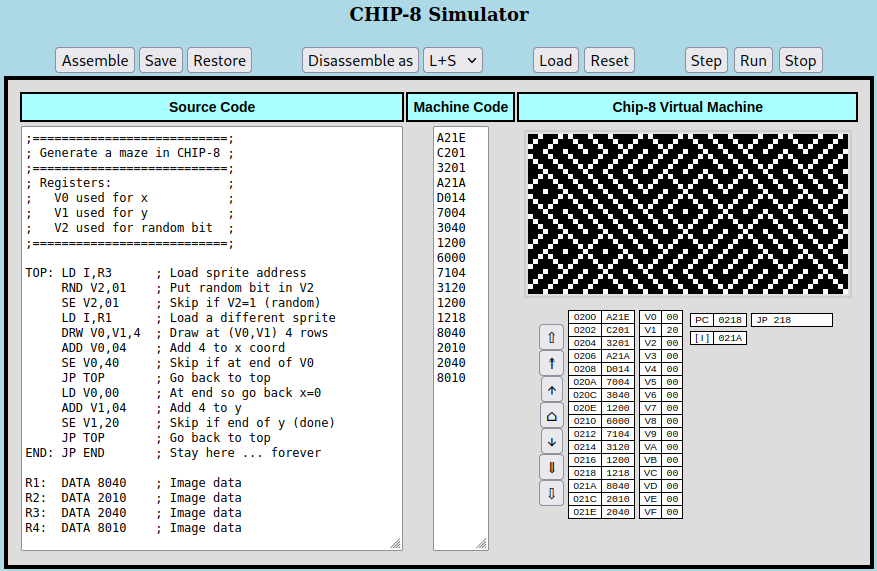
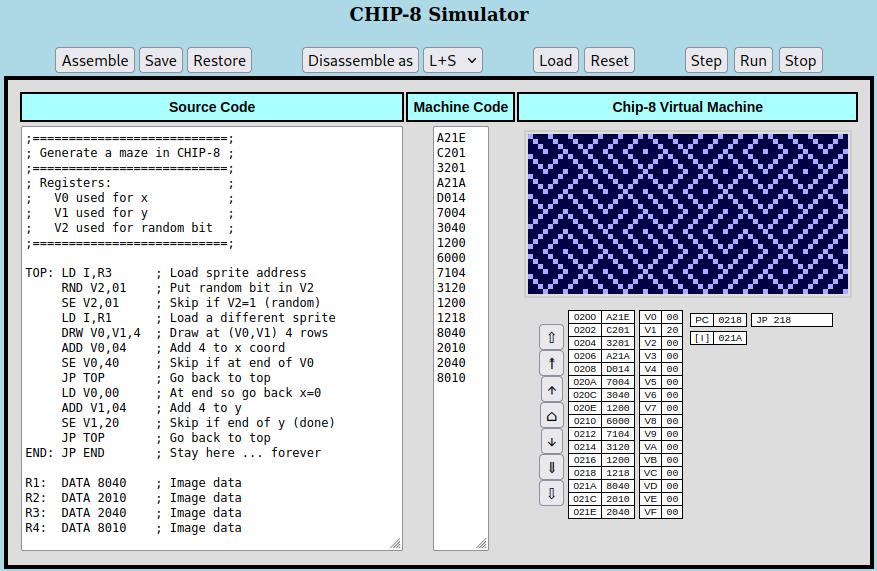
Added color (light blue on dark blue) to the output screen.

Changed region(s): [[0.5849, 0.2084, 0.9852, 0.5359]]

diff --git a/Chip8Sim.html b/Chip8Sim.html
@@ -65,6 +65,8 @@ I = 0x0000;
 num_rows = 32;
 num_cols = 64;
 screen = [];
+fg_color = "#AAAAff";
+bg_color = "#000044";
 
 function replaceAll ( s, t, r ) {
 	new_s = (s + " ").trim();
@@ -90,9 +92,9 @@ function hex (val) {
 function draw_screen() {
   da = document.getElementById ("drawing_area");
   ctxt = da.getContext('2d');
-  ctxt.fillStyle = 'black';
+  ctxt.fillStyle = bg_color;
   ctxt.fillRect(0, 0, da.width, da.height);
-  ctxt.fillStyle = 'white';
+  ctxt.fillStyle = fg_color;
   for (r=0; r<num_rows; r++) {
     for (c=0; c<num_cols; c++) {
       if (screen[r][c] != 0) {
@@ -152,7 +154,7 @@ function onload() {
   // Initialize the drawing area
   da = document.getElementById ("drawing_area");
   ctxt = da.getContext('2d');
-  ctxt.fillStyle = 'black';
+  ctxt.fillStyle = bg_color;
   ctxt.fillRect(0, 0, da.width, da.height);
   init_machine();
 }
